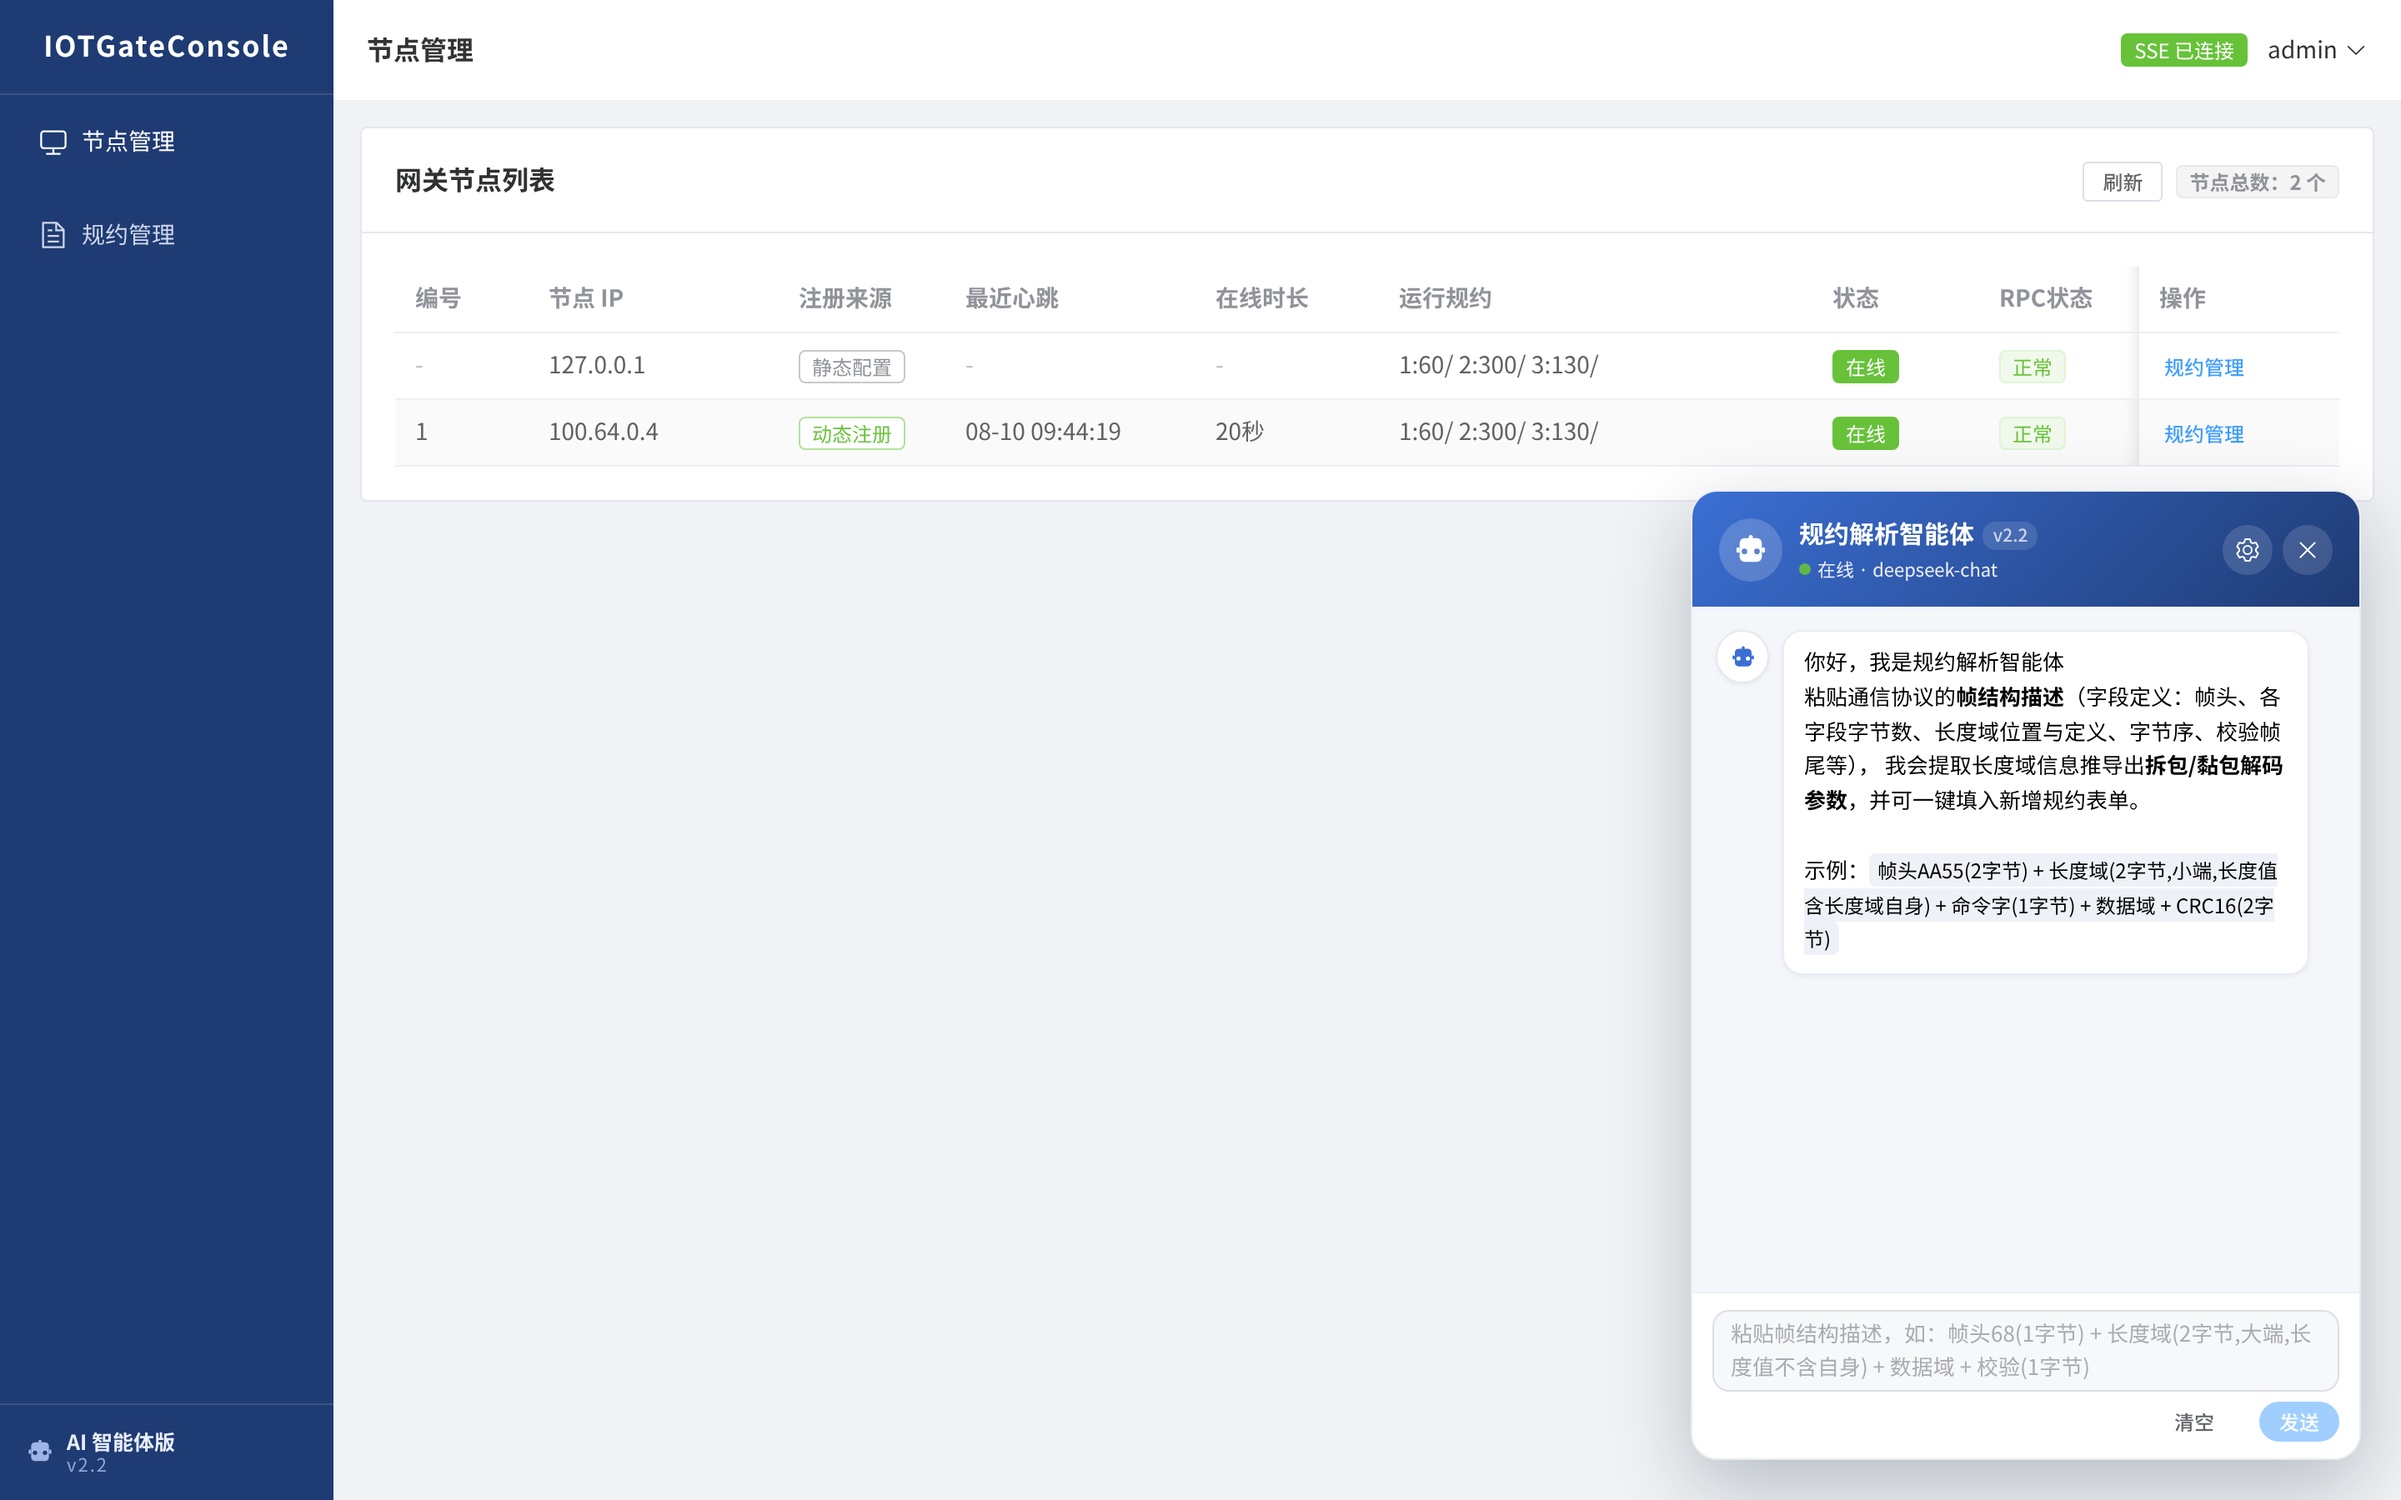
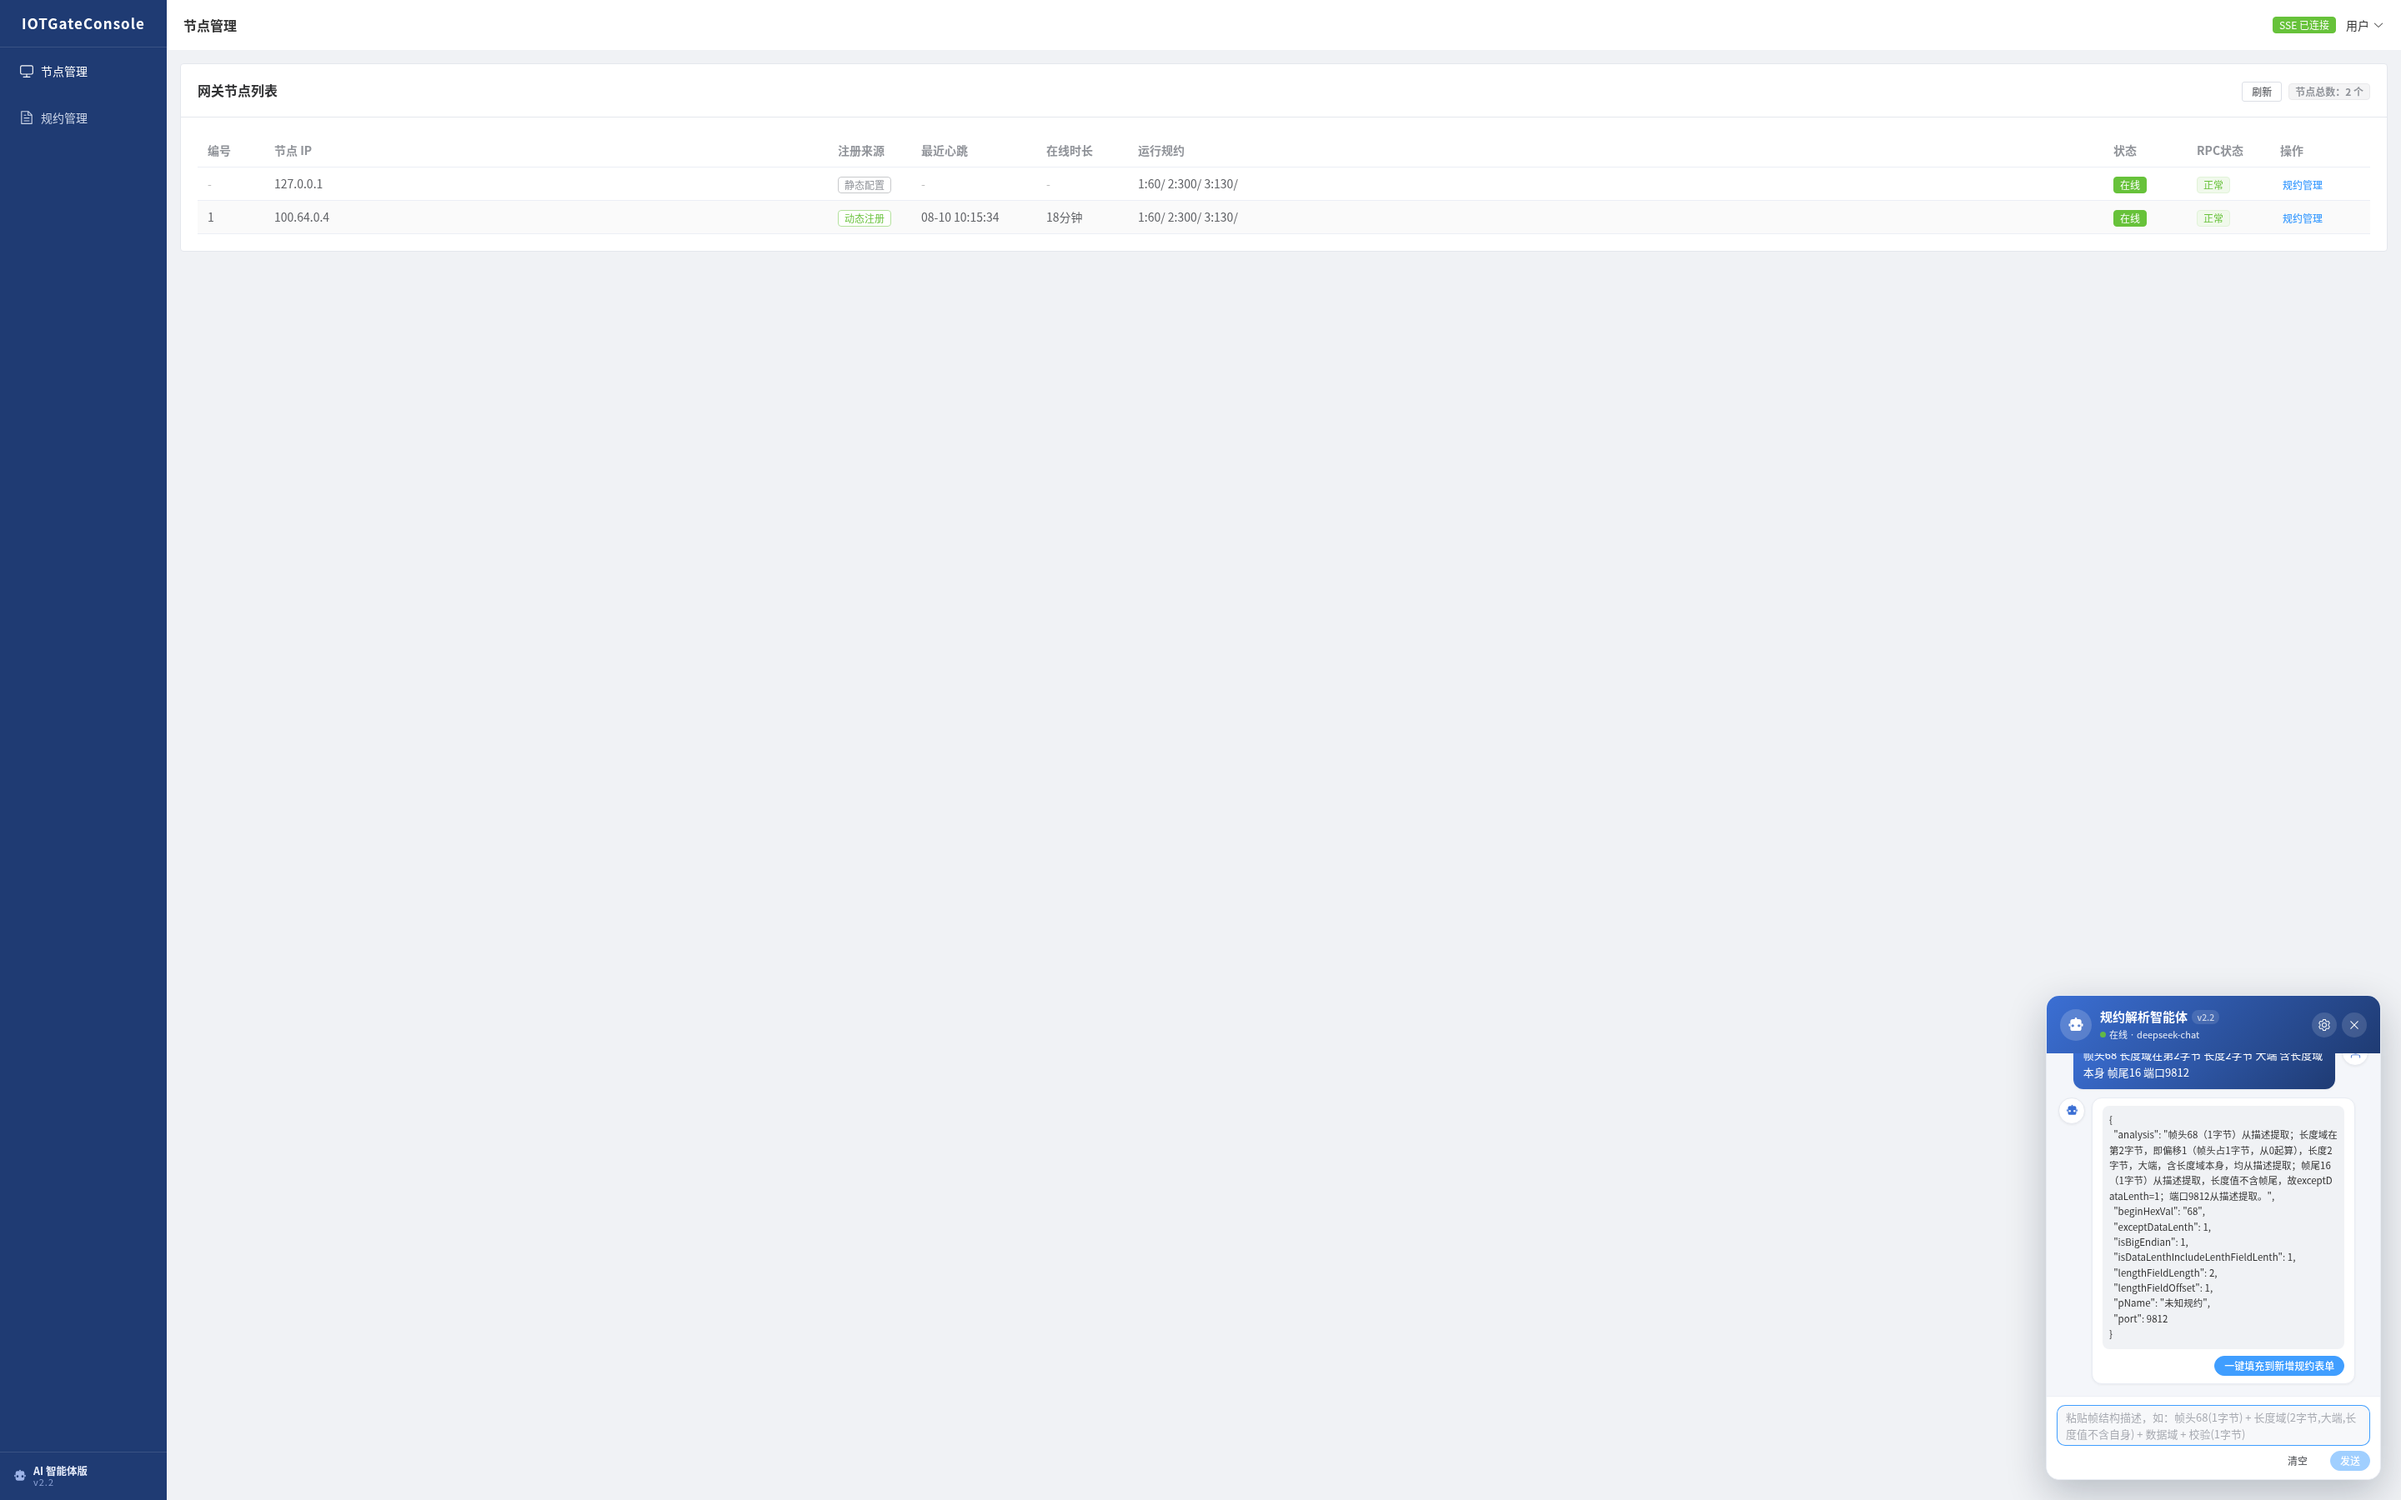
docs: README截图全面更新为v2.2新版(登录/节点/规约/对话/设置)并新增智能体版本重要更新说明
- 运行方式'用户名密码随意输入'处补充新版科技风登录页截图(login-v2.2-new)
- 智能体对话解析/模型设置/节点管理/规约管理截图全部替换为v2.2新版(含真实测试数据)
- 新增'智能体版本重要更新说明'章节(v2.0→v2.1→v2.2 三级演进对比表+6项重要更新)
- 清理11张未引用的旧版截图，仅保留5张v2.2新图

diff --git a/README.md b/README.md
@@ -24,13 +24,17 @@ IOTGateConsole是IOTGate智能网关的控制台程序，用于查看当前IOTGa
 
 **🗣 对话解析**：粘贴通信协议的**帧结构描述**（协议文档中的字段定义：帧头、各字段字节数、**长度域位置与定义**、字节序、校验帧尾等），AI 自动提取长度域信息，推导出网关拆包/黏包解码参数（大小端/起始符/长度域偏移/长度域长度/长度含长度域标志/额外长度/端口），并支持**一键填充**到新增规约表单：
 
-![智能体对话解析](docs/screenshots/bot-chat-result.png)
+![智能体对话解析](docs/screenshots/bot-chat-v2.2.png)
 
 **⚙ 大模型配置动态设置**：**厂商无关**，支持任意 OpenAI 兼容接口（DeepSeek / 通义千问 / 智谱GLM / Ollama / OpenAI 等）。点击机器人右上角 ⚙ 可视化修改模型地址、模型名称、API Key、采样温度、超时时间，**保存立即生效，无需重启**，配置持久化本地（重启后保留）：
 
-![模型设置面板](docs/screenshots/bot-settings.png)
+![模型设置面板](docs/screenshots/bot-settings-v2.2.png)
 
-![规约管理页](docs/screenshots/strategy-page.png)
+**📡 节点管理**：实时展示网关节点列表（动态注册 + 静态配置），TCP 探测在线状态，SSE 实时推送上下线；运行规约、最近心跳、在线时长一目了然：
+
+![节点管理页](docs/screenshots/node-manage-v2.2.png)
+
+![规约管理页](docs/screenshots/strategy-page-v2.png)
 
 技术栈：**LangChain4j 1.18**（AiServices 声明式结构化输出，Java 8 老项目平滑升级至 **JDK 21 + Spring Boot 3.5**）
 
@@ -49,6 +53,27 @@ IOTGateConsole是IOTGate智能网关的控制台程序，用于查看当前IOTGa
   - 智谱GLM：`https://open.bigmodel.cn/api/paas/v4` + `glm-4`
   - Ollama 本地：`http://localhost:11434/v1` + 本地模型名（无需 Key）
 
+### 智能体版本重要更新说明（v2.0 → v2.1 → v2.2）
+
+本仓库在 v2.0 基础上完成了 **从"无 AI"到"智能体全功能版"** 的三级演进，各版本关键差异如下：
+
+| 版本 | 核心能力 | 智能体形态 | 技术栈 |
+|---|---|---|---|
+| **v2.0** | 去 Zookeeper、Vue3 重构、SSE 实时推送 | ❌ 无 | Spring Boot 2.x + JDK 8 |
+| **v2.1** | 新增智能体模式：AI 解析协议帧结构、自动填充规约表单 | 页面内嵌面板 | LangChain4j 初版集成 |
+| **v2.2（当前）** | 悬浮机器人 + 大模型配置动态化 + 节点/规约管理增强 | 右下角悬浮机器人 | JDK 21 + Spring Boot 3.5 + LangChain4j 1.18 |
+
+**v2.2 相比 v2.1 的重要更新：**
+
+1. **🪄 交互形态升级**：智能体由页面内嵌面板改为**右下角悬浮机器人**（主流客服交互设计，带呼吸脉冲动画），随时呼出、随时收起，不占页面空间
+2. **⚙ 大模型配置动态化**：模型地址/模型名称/API Key/温度/超时**可视化修改、保存立即生效、无需重启**，配置持久化本地；v2.1 只能改配置文件重启生效
+3. **🌐 厂商无关化**：支持任意 OpenAI 兼容接口（DeepSeek / 通义千问 / 智谱GLM / Ollama / OpenAI），v2.1 仅内置 DeepSeek 单一厂商
+4. **🖥 技术栈升级**：JDK 8 → **21**、Spring Boot 2.x → **3.5**、LangChain4j 规范化重构（AiServices 声明式结构化输出），性能与可维护性全面提升
+5. **🎨 界面焕新**：登录页升级为 AI 智能体版科技风格（突出百万设备长连接与多规约接入）、页面新增 v2.2 版本标识、悬浮机器人图标由 emoji 替换为 **SVG 矢量图**（修复无 emoji 字体环境下显示为 × 的问题）
+6. **📡 运行管理增强**：规约启停管理落地、节点管理页增强（注册来源/最近心跳/在线时长/运行规约展示）、网关主动注册机制（动态发现 + 静态配置兜底）
+
+> 注：v2.1 → v2.2 为增量演进，v2.1 的 AI 解析帧结构、一键填充规约表单等核心能力在 v2.2 中原样保留并增强。
+
 ### 环境要求
 jdk21（Temurin 21 LTS 及以上）、mysql5.5+ 以及 IOTGate 节点
 
@@ -57,6 +82,9 @@ jdk21（Temurin 21 LTS 及以上）、mysql5.5+ 以及 IOTGate 节点
 2. 在 `src/main/resources/application.properties` 中配置数据库参数和 `gate.nodes` 网关节点列表
 3. 执行 `mvn package` 打成可执行 jar 包，启动 jar 包，默认端口为 8686
 4. 访问 http://127.0.0.1:8686/static/index.html ，首次访问会跳转到登录页，用户名密码随意填写（没有存库！）
+
+![新版登录页](docs/screenshots/login-v2.2-new.png)
+
 5. 前端源码位于 `frontend/` 目录（Vue3 + Vite），如需二次开发：`cd frontend && npm install && npm run dev`（开发模式代理 /rpc 到 8686）；构建产物已集成到 `src/main/resources/static/`
 
 ### GATE CLUSTER 结构图
